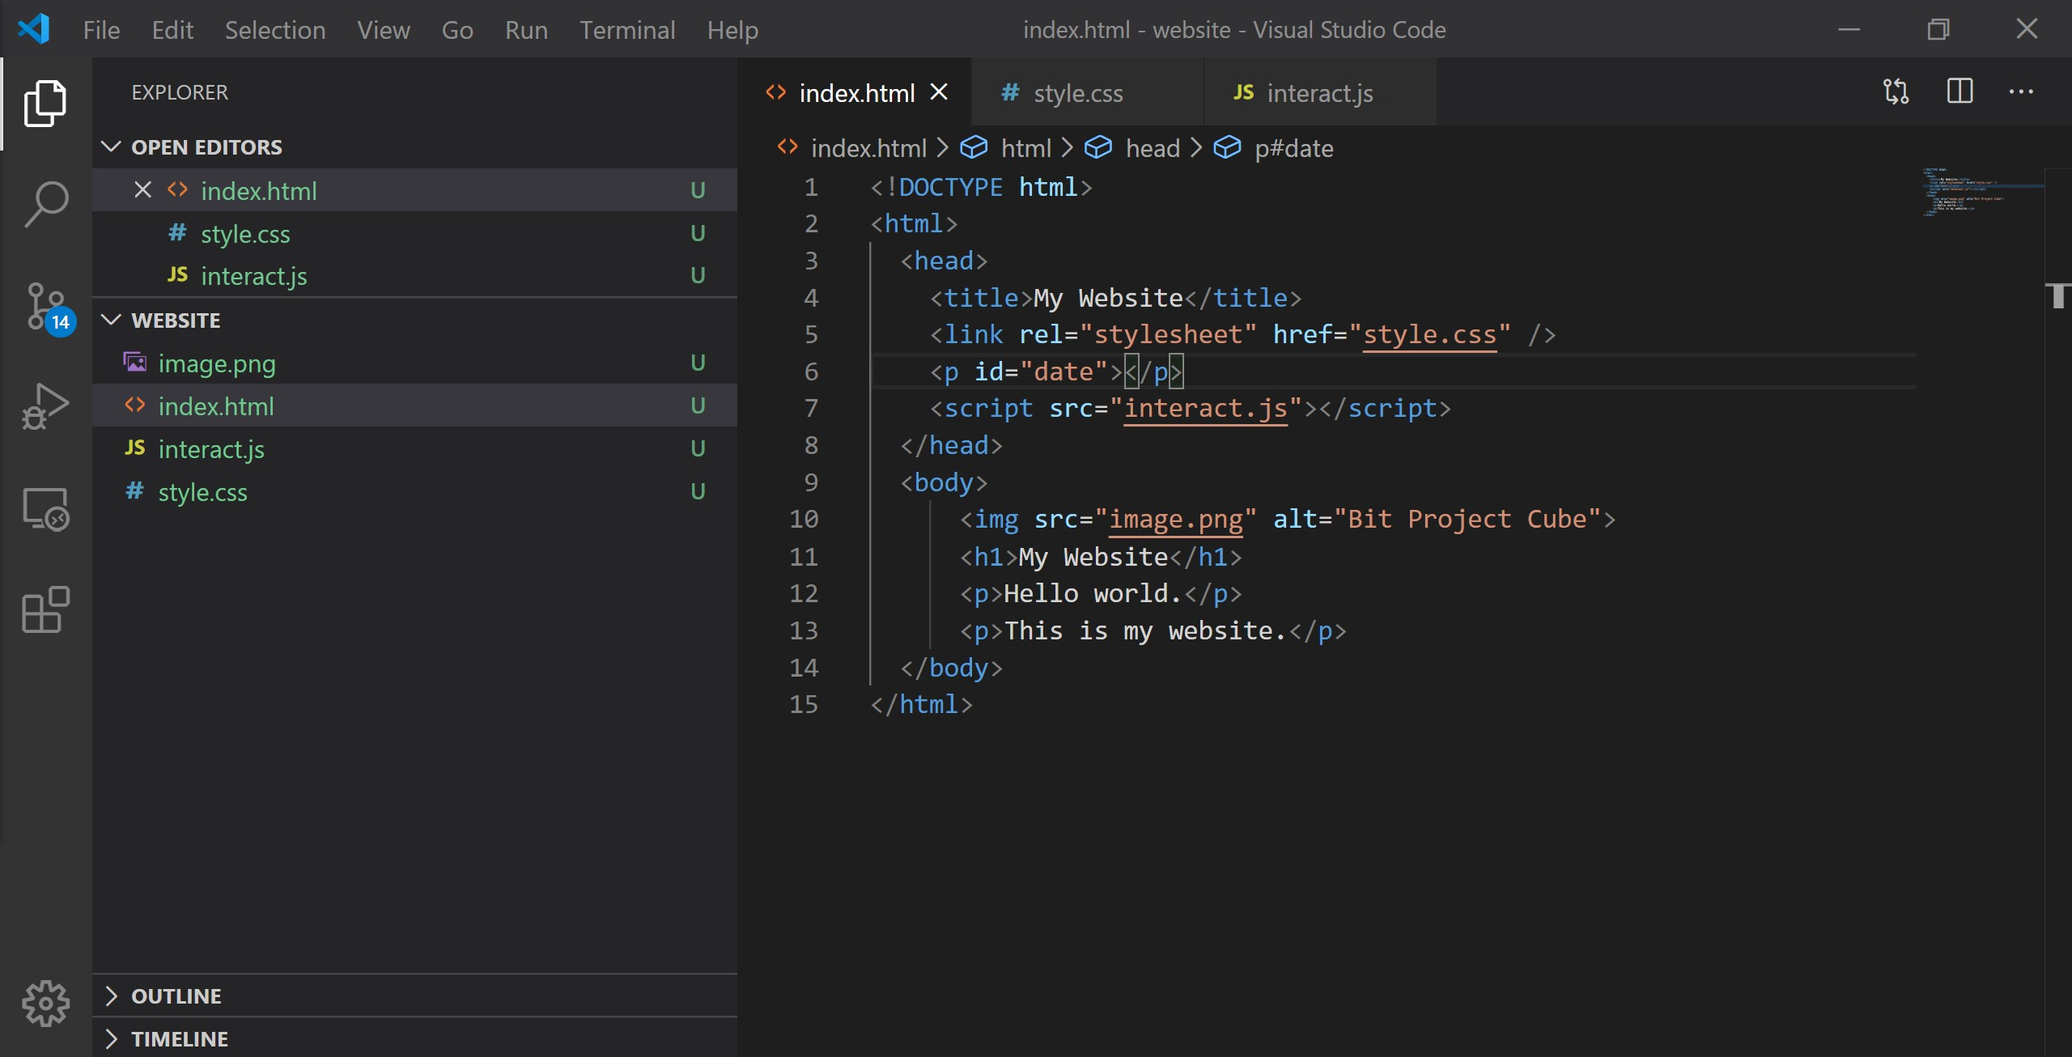
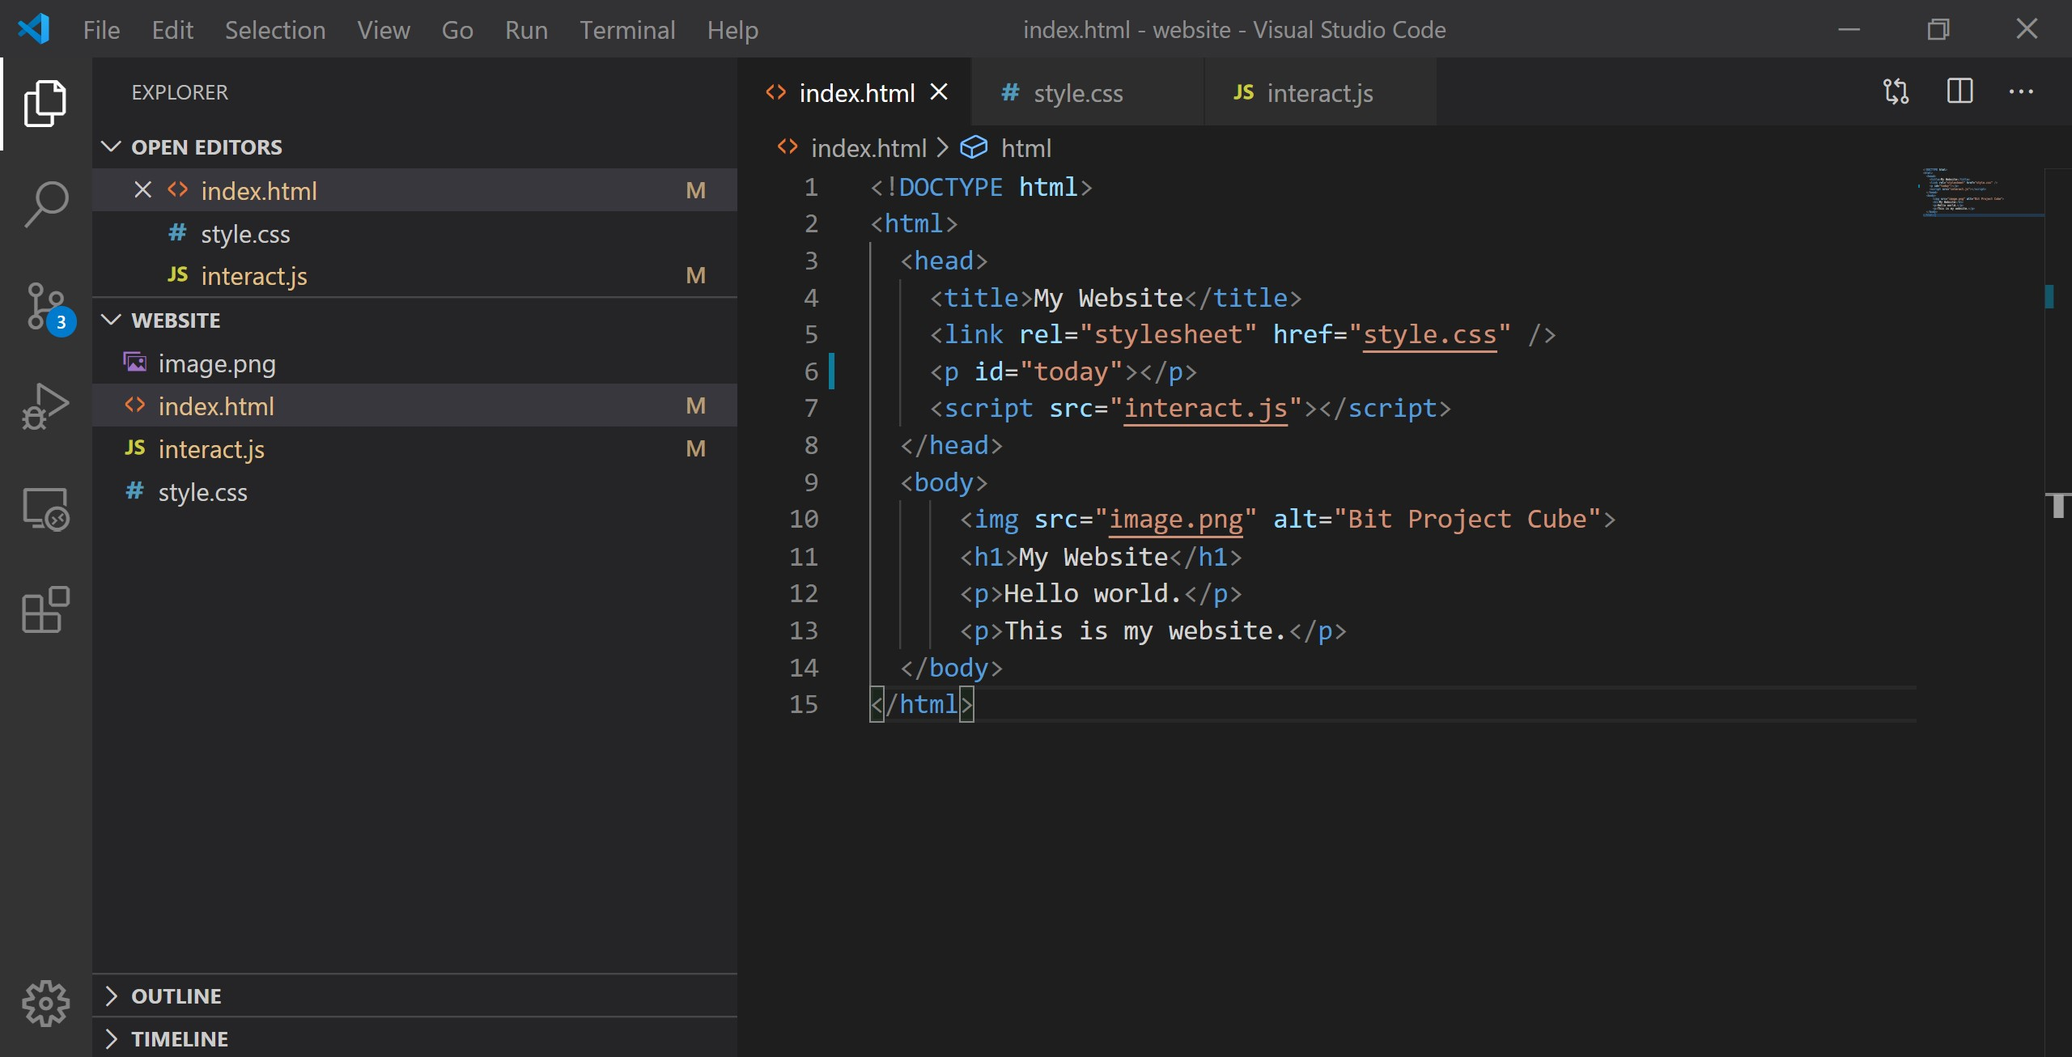
revised blog.md

diff --git a/how to build your own website/code_finished/website/interact.js b/how to build your own website/code_finished/website/interact.js
@@ -1,6 +1,6 @@
 'use strict'
 
-let today = new Date();
-let formatDate = today.toDateString();
-let selectElement = document.getElementById('date');
-selectElement.innerHTML = formatDate;
+let currentDay = new Date();
+let newFormat = currentDay.toDateString();
+let getData = document.getElementById('today');
+getData.innerHTML = newFormat;

diff --git a/how to build your own website/code_finished/website/index.html b/how to build your own website/code_finished/website/index.html
@@ -3,7 +3,7 @@
   <head>
     <title>My Website</title>
     <link rel="stylesheet" href="style.css" />
-    <p id="date"></p>
+    <p id="today"></p>
     <script src="interact.js"></script>
   </head>
   <body>

diff --git a/how to build your own website/blog.md b/how to build your own website/blog.md
@@ -1,11 +1,11 @@
 # How to Build Your Own Website - Introduction to HTML, CSS, and JavaScript
 
-The world of web development and design is growing, and creating a website, whether it would be to display a design portfolio or to track personal progress in everyday life, has become a popular method to establish an online presence or to track personal progress. As the selection of website builders and frameworks continue to expand, however, it can seem daunting and overwhelming when you do not know where or how to start.
+The world of web development and design is growing, and whether it would be to establish a professional online presence, showcase a design portfolio, or record personal events from everyday life, creating a website has become a popular method to connect with the world. As the selection of frameworks and tools continue to expand, however, figuring out this process may seem daunting and overwhelming to beginners who are learning to code and do not know how to start.
 
-For those of you at square one, this blog will serve as your first step into the web development and design and teach you how to create a basic website entirely from scratch using HTML, CSS, and JavaScript.
+For those of you at square one, this blog will serve as your first step as a web developer by teaching you how to create a basic website entirely from scratch, using HTML, CSS, and JavaScript.
 
 In this tutorial, you will learn how to do the following:
-- Setup your coding editor
+- Setup a code editor
 
 - Code HTML, CSS, and JavaScript files
 
@@ -16,28 +16,29 @@ In this tutorial, you will learn how to do the following:
 ## Coding Environment
 
 ### Getting Started
-We will be using [Visual Studio Code](https://code.visualstudio.com/) as our *source code editor*, which is a text editor that is specialized for writing computer programs, for creating the files for our website. In order to get started, [download Visual Studio Code](https://code.visualstudio.com/download) and install the right version for your computer.
+We will be using [Visual Studio Code](https://code.visualstudio.com/) as our *source code editor*, which is a text editor that is specialized for writing computer programs, to create the files for our website. In order to get started, [download Visual Studio Code](https://code.visualstudio.com/download) and install the right version for your computer.
 
 ![vscode](photos/vscode.jpg)
 
 
+
 ## HTML, CSS, and JavaScript Files
 
-To start, open your *terminal* or *command prompt*, which is a command line system on your operating that allows execute commands on your computer, and type the following:
+To start, open your *terminal* or *command prompt*, which is a command line system on your operating system that allows you execute commands on your computer, and type the following:
 
 ```markdown
-code index.html style.css script.js
+code index.html style.css interact.js
 ```
 
-This will automatically create, name, and open the three files you will need for you website in Visual Studio Code, then save each file by selecting **File > Save** and exit the app with **File > Exit**. Create a folder and move your files in to keep them all in one place (we named our folder "website"), and then in Visual Studio Code, go to **File > Open Folder** to open your folder and display your files.
+This will automatically create, name, and open the three files you will need for your website in Visual Studio Code. Save each file by selecting **File > Save** and exit the app with **File > Exit**. Create a new folder and move the three files into it to keep them all in one place (we named our folder "website"), then in Visual Studio Code, go to **File > Open Folder** to open your folder and display your files.
 
 ![open_folder](photos/open_folder.jpg)
 
 ### Building the Foundation: HTML File
 
-*HTML* stands for Hypertext Markup Language and is the standard markup language for displaying content on a website. 
+*HTML* stands for Hypertext Markup Language and is the standard *markup language*, which is a computer processing system designed for annotating and presenting text, for displaying content on a website.
 
-In your `index.html` file, type in the following code and save your file:
+In your `index.html` file, type in the following lines of code:
 
 ```html
 <!DOCTYPE html>
@@ -50,11 +51,11 @@ In your `index.html` file, type in the following code and save your file:
 </html>
 ```
 
-This is the basic underlying structure that behind all the websites you view online, and before we start editing our code, let us look over our code and understand what each part represents.
+This is the basic underlying structure that is used for most websites that we view online, and before we start editing our code, let us look over what we currently have and understand what each part represents.
 
 `<!DOCTYPE html>` indicates which version of HTML is being used, and in this case, we are using the latest version, HTML5.
 
-HTML code is composed of *elements*, which are chunks of information stored between a set of opening and closing *tags*—for instance, `<html></html>` are the opening and closing tags for the `html` element. Think of these elements as separate boxes, which each indented element as a box within. 
+HTML code is composed of *elements*, which are chunks of information stored between a set of opening and closing *tags*—for instance, `<html></html>` are the opening and closing tags for the `html` element. Think of these elements as separate boxes with each indented element as a smaller box within a larger enclosing box, marked by its opening and closing tags.
 
 ![html_starter](photos/html_starter.jpg)
 
@@ -68,9 +69,9 @@ To create the title of our website, add text between the `<title></title>` tags:
 ...
 ```
 
-This title is important in a few ways, as it will appear in search engines, set the default name of your website when it is bookmarked, and allow you to more easily navigate this page of your website.
+Though this text is not displayed on the web page, having a title is important because it will represent your website in search engines, be set as the default name of your website when it is bookmarked, and allow you to more easily navigate this page of your website.
 
-To add text to the body of page, we will use a heading tag `<h1></h1>` , which is can be ranked and numbered up to `<h6></h6>`, and a paragraph tag `<p></p>` between the opening and closing tags of the `body` element. Write whatever you would like to your web page between these tags:
+To add text to the body of web page, we will use a heading tag `<h1></h1>` , which are ranked tags and can be numbered up to `<h6></h6>`, and a paragraph tag `<p></p>` between the opening and closing tags of the `body` element. Write any text you would like to feature on your web page between these tags:
 
 ```html
 ...
@@ -82,9 +83,9 @@ To add text to the body of page, we will use a heading tag `<h1></h1>` , which i
 ...
 ```
 
-If the text you wanted to add to the page has line breaks in between, you must up another `<p></p>` element because HTML will not change be able to detect and display the indents in your code onto your webpage.
+If you want to multiple blocks of text that are separated by line breaks, then you must use another `<p></p>` element for each indented block of text because HTML will not change be able to detect or display the line breaks in your code onto your webpage.
 
-To add an image to your web page, we will use an image tag `<img>` which does not have a closing tag because it is a *void element*. The `<img>` tag will include *attributes*, which can be added to the heading tag of an element to provide additional information, and the two attributes we will use as `src` and `alt`. The `src` attribute will contain the URL or name of the image, and in case the image does not load or cannot be viewed on the website, the `alt` attribute will display an alternative text message in replacement of the image. Add any image and text description you would like for your webpage:
+To add an image to our web page, we will use an image tag `<img>`, which does not have a closing tag because it is a *void element* or an element that cannot hold any kind of content besides *attributes*, which are additional bits of information featured in the heading tag of an element. The `<img>` tag will include two attributes, `src` and `alt`. The `src` attribute will contain the URL or file name of the image, and in case the image cannot load on the website, the `alt` attribute will display an alternative text message in replacement of that image. Add any image and text description you would like to have on your web page:
 
 ```html
 ...
@@ -97,11 +98,11 @@ To add an image to your web page, we will use an image tag `<img>` which does no
 ...
 ```
 
-Note that if you are using a local image on your computer, you must place the file in the same folder as the other files for your website.
+Note that if you are using a local image from your computer, you must place the file in the same folder as the other three files for your website.
 
 ![html_update](photos/html_update.jpg)
 
-Now, we can run the our website and see what it looks like so far. Go into your folder and double-click on your html file, which will prompt it to open in your web browser:
+Now, we can run the our website and see what we have created so far. Go into your folder and double-click on your html file—this will prompt your website to open in a web browser:
 
 ![](photos/website_start.jpg)
 
@@ -109,7 +110,7 @@ Now, we can run the our website and see what it looks like so far. Go into your 
 
 *CSS* stands for Cascading Style Sheets and is the standard style sheet language for defining and stylizing aspects on a website.
 
-Before we can add anything to our CSS file, we need to link our CSS file in the HTML file by adding a `<link />` tag to the `head` element. The `<link />` uses a `ref` attribute that describes the relationship the HTML file has with the linked file and a `href` attribute that states the location or name of the linked file. Add the following line to the `head` element of your HTML file:
+Before we can add anything to our CSS file, we need to link our CSS file in our HTML file by adding a `<link />` tag to the `head` element. The `<link />` uses a `ref` attribute, which describes the relationship between the HTML file and the linked file, and a `href` attribute, which states the location or name of the linked file. Add the following line to the `head` element of your HTML file:
 
 ```html
 ...
@@ -120,9 +121,9 @@ Before we can add anything to our CSS file, we need to link our CSS file in the 
 ...
 ```
 
-Now, to start stylizing our website, let us understand how CSS works.
+To start stylizing our website, let us briefly go over how CSS works.
 
-A CSS file is called a stylesheet, and this stylesheet composed of *declaration blocks* that are defined by a *selector* and contain attributes between *curly brackets*. For our website, we will use an `img` selector for the image and a `body` selector for the text on the web page:
+A CSS file is called a *stylesheet*, which is a template file that consists of a web page's font and layout settings, and stylesheets are composed of *declaration blocks* that are defined by a *selector* and contain attributes between *curly brackets*. For our website, we will use an `img` selector and a `body` selector to customize the image and text of our web page:
 
 ```css
 img {
@@ -134,7 +135,7 @@ body {
 }
 ```
 
-For the `img` selector, we will add the `width` attribute, which will set the width of all images on our web page in pixels. Feel free to increase and decrease the number of pixels and run your website to see how the adjust how the image appears on the web page:
+For the `img` selector, we will add the `width` attribute, which will determine the width of all images on our web page in pixels. To alter how your image appears, feel free to run your website multiple times while increasing and decreasing the number of pixels in between each run until you are satisfied with the result:
 
 ```css
 img {
@@ -143,7 +144,7 @@ img {
 ...
 ```
 
-For the `body` selector, we will first adjust the text on our page by adding the following attributes and values:
+For the `body` selector, we will first adjust the characteristics of the text on our page by adding the following attributes and values:
 
 ```css
 ...
@@ -153,9 +154,9 @@ body {
 }
 ```
 
-Here, you can customize the font of the text on your website by selecting a value from this [CSS font list](https://www.w3schools.com/cssref/css_websafe_fonts.asp) and adding it to your `font-family` attribute. There are many other attributes you can add to your `body` selector to stylize the text on your website, such as `font-style`, `font-size`, `font-weight`, and so on. The `center` value for the `text-align` attribute will center whatever is listed inside the `body` element in your HTML file.
+You can customize the font of the text on your website by selecting a value from this [CSS font list](https://www.w3schools.com/cssref/css_websafe_fonts.asp) and adding it to your `font-family` attribute. There are also many other attributes you can add to your `body` selector to stylize the text on your website, such as `font-style`, `font-size`, `font-weight`, and so on. The `center` value for the `text-align` attribute will center whatever is listed inside the `body` element in your HTML file.
 
-We can then add some color to our website by adding the following attributes:
+Then, we can add some color to our website by adding the following attributes:
 
 ```css
 ...
@@ -168,13 +169,13 @@ body {
 }
 ```
 
-Here, you can customize the color of your web page by using the `background` attribute and the color of your text by using the `color` attribute. Feel free to browse this [browser-supported colors list](https://www.w3schools.com/colors/colors_names.asp) and select any color you would like for your website. 
+You can customize the color of your web page by using the `background` attribute and the color of the text by using the `color` attribute. Feel free to browse this [browser-supported colors list](https://www.w3schools.com/colors/colors_names.asp) and select any color you would like to use for your website. 
 
 This is what your completed CSS file should look like:
 
 ![css](photos/css.jpg)
 
-Now, let us run our file again by double-clicking the HTML file in our folder and look at the stylizations we have made to add to our website:
+Now, let us run our file again to review the stylizations we have added to our website:
 
 ![website_2](photos/website_2.jpg)
 
@@ -182,14 +183,14 @@ Now, let us run our file again by double-clicking the HTML file in our folder an
 
 *JavaScript* is a programming language that in used in web development to add interactivity to websites through dynamic behavior, such as buttons, pop-up windows, and so on. For our website, we will add an element that displays today's date on our website.
 
-Now before we start working on coding our JavaScript file,  we need to add an element to display our date, so we will add a set of `<p></p>` tags with an `id` attribute, which specifics a unique id for an HTML element that can be stylized by the CSS style sheet and/or manipulated by JavaScript, named `date`. We also need to link our JavaScript file in the HTML file by adding a set of `<script></script>` tags with a `src` attribute to our head element:
+Before we start coding our JavaScript file, we need to create an element in our HTML file to display our date by adding a set of `<p></p>` tags with an `id` attribute, which specifics a unique identity for an HTML element that can be stylized by CSS and/or manipulated by JavaScript, named `today`. We also need to link our JavaScript file in the HTML file by adding a set of `<script></script>` tags with a `src` attribute to our head element:
 
 ```html
 ...  
   <head>
     <title>My Website</title>
     <link rel="stylesheet" href="style.css" />
-    <p id="date"></p>
+    <p id="today"></p>
     <script src="interact.js"></script>
   </head>
 ...
@@ -199,44 +200,44 @@ This is what your completed HTML file should look like:
 
 ![html_js](photos/html_js.jpg)
 
-Moving on to our JavaScript file, we will first activate *strict mode* for our website to narrow the possibility of assumptions JavaScript may make and prevent any possible silent errors that may occur:
+Moving back to our JavaScript file, we first need activate *strict mode* for our website to prevent any silent errors from occurring by narrowing down the chance of JavaScript making any false assumptions:
 
 ```javascript
 'use strict'
 ```
 
-To display the current date, we will create a *variable* named `today` and use the built-in JavaScript *object* `new Date()` to retrieve the data we need:
+To acquire the current date, we will create a *variable* named `currentDay` and, to retrieve the data we need, use the `new` *operator* to instantiate a new `Date()` *object*:
 
 ```javascript
-let today = new Date();
+let currentDay = new Date();
 ```
 
-To format the data into the current date, we will create another variable named `formatDate` and use `toDateString()`, which will remove the time and time zone to only reveal the date:
+To format the data into the current date, we will create another variable named `newFormat` and use `toDateString()`, which will remove the time and time zone from the data we received to only reveal today's date:
 
 ```javascript
-let formatDate = today.toDateString();
+let newFormat = currentDay.toDateString();
 ```
 
-To add this data onto the website itself, we will create one more variable named `selectElement` to retrieve our `date` element from our HTML file by using `getElementById()` :
+To add this data onto the website, we will create one more variable named `getData` to retrieve our `today` element from our HTML file by using `getElementById()` :
 
 ```javascript
-let selectElement = document.getElementById('date');
+let getData = document.getElementById('today');
 ```
 
-Finally, after retrieving our `date` element, we need to insert the data we received into it by using `innerHTML` and setting it to our `formatDate` variable to finish our JavaScript code:
+Finally, after retrieving our `today` element, we need to insert the data we received into it by using `innerHTML` and setting it equal to our `newFormat` variable to finish our JavaScript code:
 
 ```javascript
 'use strict'
 
-let today = new Date();
-let formatDate = today.toDateString();
-let selectElement = document.getElementById('date');
-selectElement.innerHTML = formatDate;
+let currentDay = new Date();
+let newFormat = currentDay.toDateString();
+let getData = document.getElementById('today');
+getData.innerHTML = newFormat;
 ```
 
 This is what your completed JavaScript file should look like:
 
-![](photos/js.jpg)
+![js](photos/js.jpg)
 
 Now, we have completely finished the code for our website!
 
@@ -248,6 +249,6 @@ Now, we have completely finished the code for our website!
 
 Congrats on creating your own website! 
 
-From this blog, we discussed the basic components go into the structure of a website—HTML, CSS, and JavaScript—and built a solid foundation that will prepare you for diving deeper into the world of web development and design.
+From this blog, we discussed the basic components go into the structure of a website—HTML, CSS, and JavaScript—and built a solid foundation of knowledge that will allow you to dive deeper into the world of web development and design with confidence.
 
-Feel free to continue adding more features to your website, such as photos, music, pages, and so on, by researching more about specific function you can create with HTML, CSS, and JavaScript, and by using this website as a base for future endeavors, you will be able to introduce and flesh out the complexity of your creations and eventually turn your interest in web development into a reality.
+Feel free to continue adding more features to your website, such as photos, music, pages, and so on, by researching more about what attributes you can create with HTML, CSS, and JavaScript—the possibilities are endless! By using this website as a base for future endeavors, you will learn how to flesh out the complexity of your web design projects, turn your web application ideas into a reality, and potentially even jumpstart a career as a web developer.
